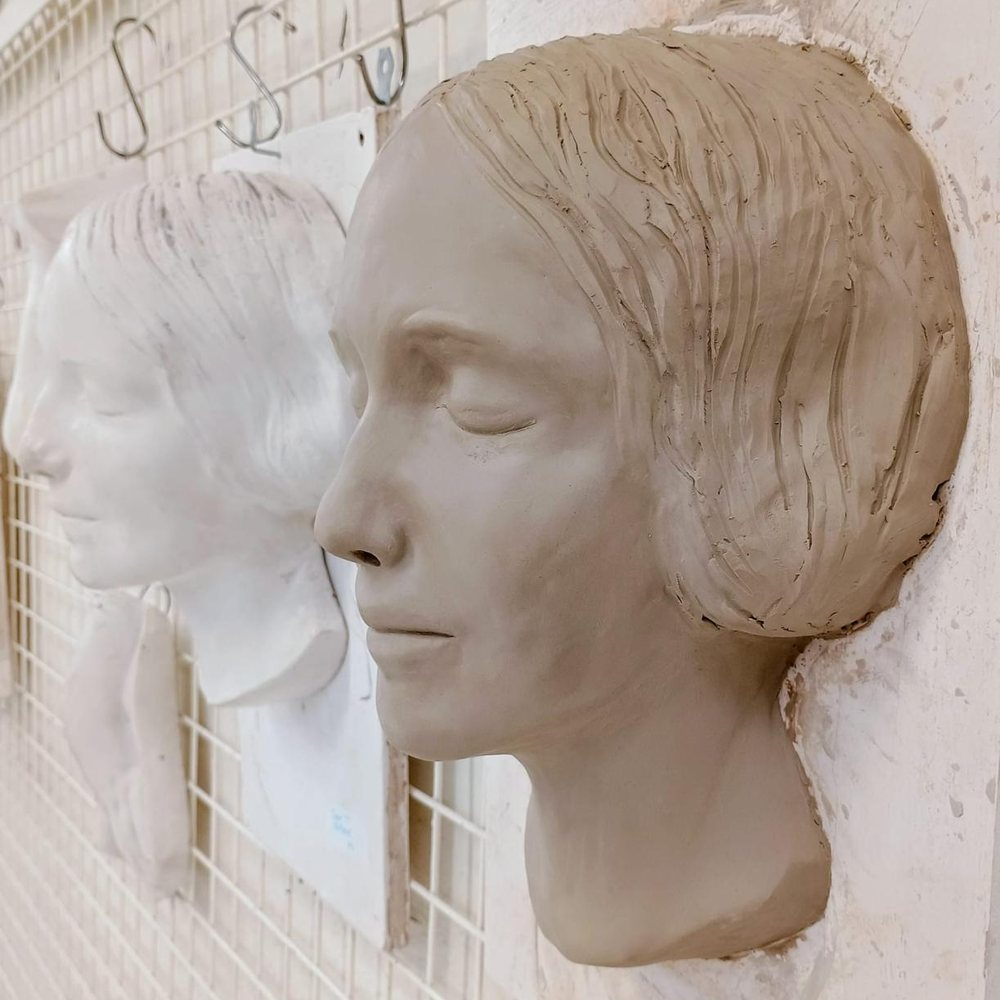
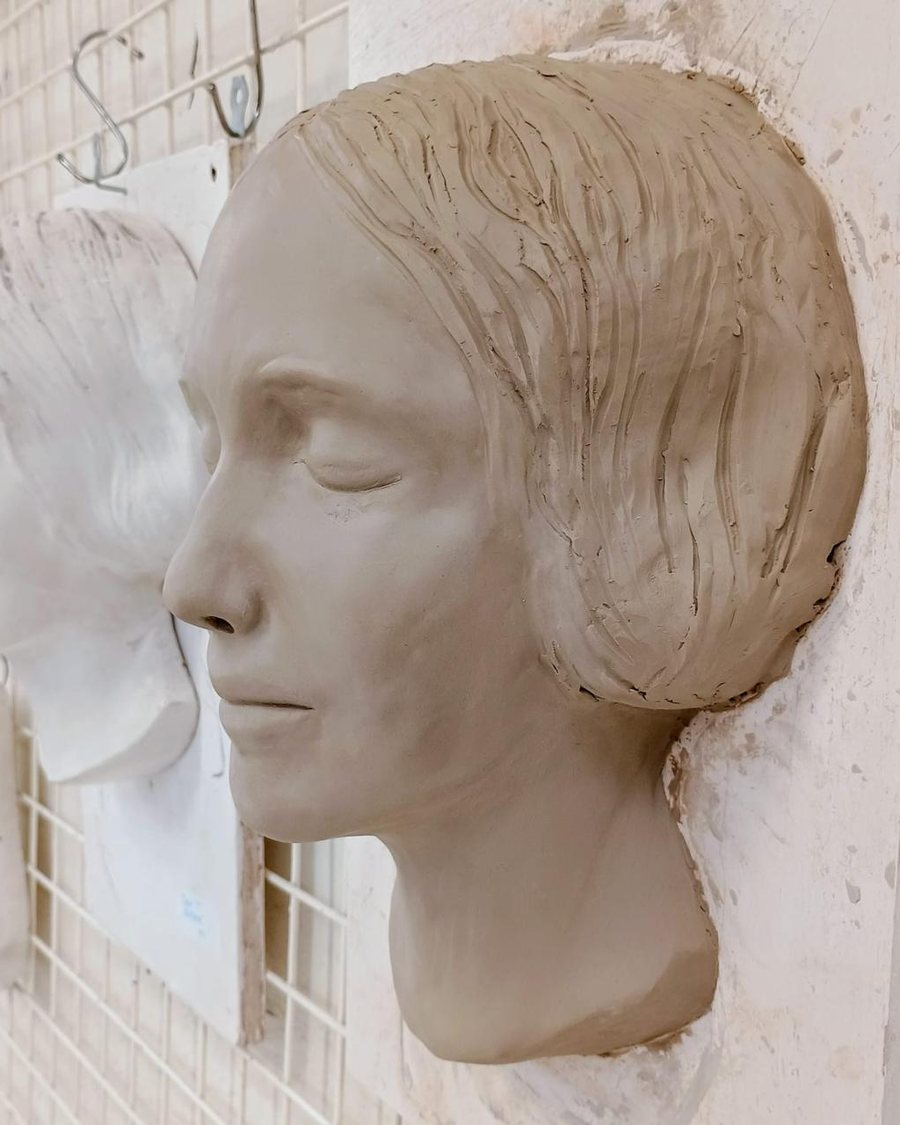
Swap a marble for the anatomy studies wall
One marble is enough, so the plinth piece goes and the studio wall of clay
studies takes its place. The wall image is near square already, so a 1:1 crop
keeps both the skull at one edge and the eye study at the other; the portrait
heads move to 4:5 to fill the narrower slot.

Source is the pasted attachment rather than the art folder, which does not
contain this photograph.

diff --git a/about/index.html b/about/index.html
@@ -421,14 +421,14 @@
 
           <figure class="feature-figure studio-figure--2 reveal">
             <img src="../assets/images/studio-2.jpg"
-                 alt="Abstract marble sculpture mounted on a black stone plinth"
-                 width="900" height="1200" loading="lazy" decoding="async">
+                 alt="A studio wall hung with clay studies of a nose, an ear, lips and an eye, beside a skull on a stand"
+                 width="1100" height="1100" loading="lazy" decoding="async">
           </figure>
 
           <figure class="feature-figure studio-figure--3 reveal">
             <img src="../assets/images/studio-3.jpg"
                  alt="Two portrait heads modelled in clay, mounted on a studio wall"
-                 width="1000" height="1000" loading="lazy" decoding="async">
+                 width="900" height="1125" loading="lazy" decoding="async">
           </figure>
 
           <figure class="feature-figure studio-figure--4 reveal">

diff --git a/css/styles.css b/css/styles.css
@@ -1143,8 +1143,8 @@ main {
 
 /* Ratios differ per piece, so no two are the same size. */
 .studio-figure--1 img { aspect-ratio: 4 / 5; }
-.studio-figure--2 img { aspect-ratio: 3 / 4; }
-.studio-figure--3 img { aspect-ratio: 1 / 1; }
+.studio-figure--2 img { aspect-ratio: 1 / 1; }
+.studio-figure--3 img { aspect-ratio: 4 / 5; }
 .studio-figure--4 img { aspect-ratio: 4 / 3; }
 
 /* Inline link inside body copy. */
